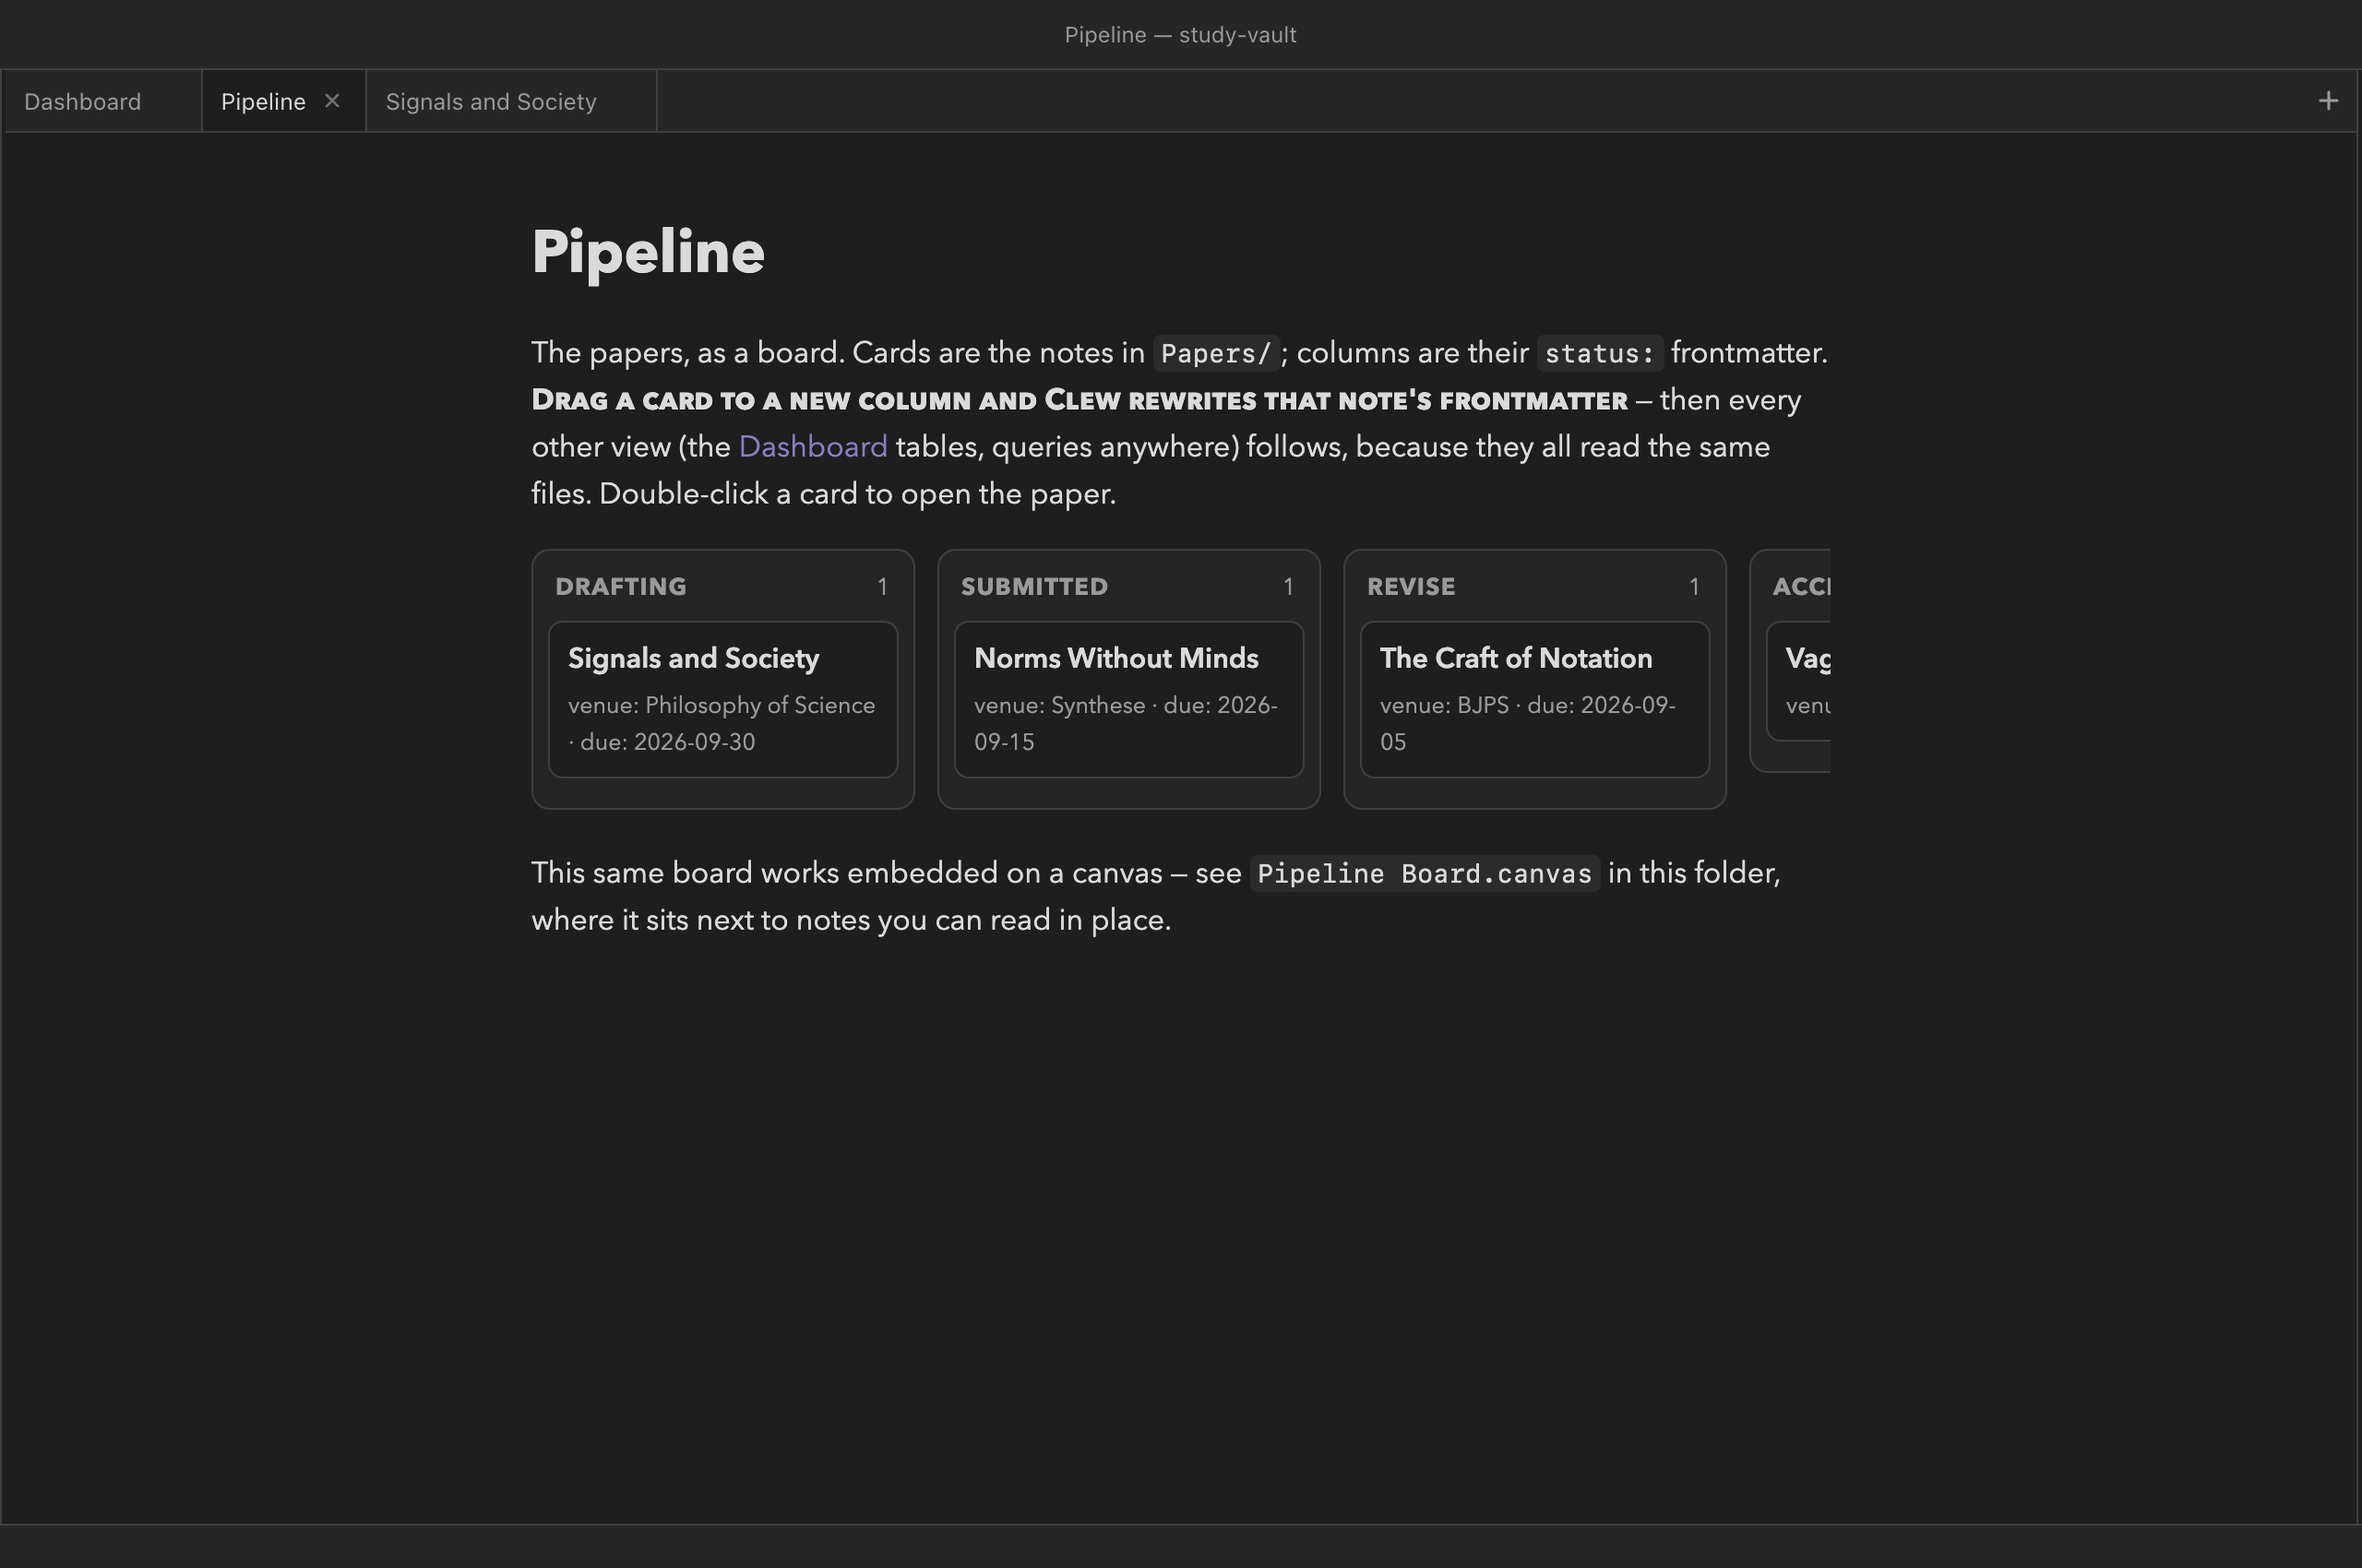
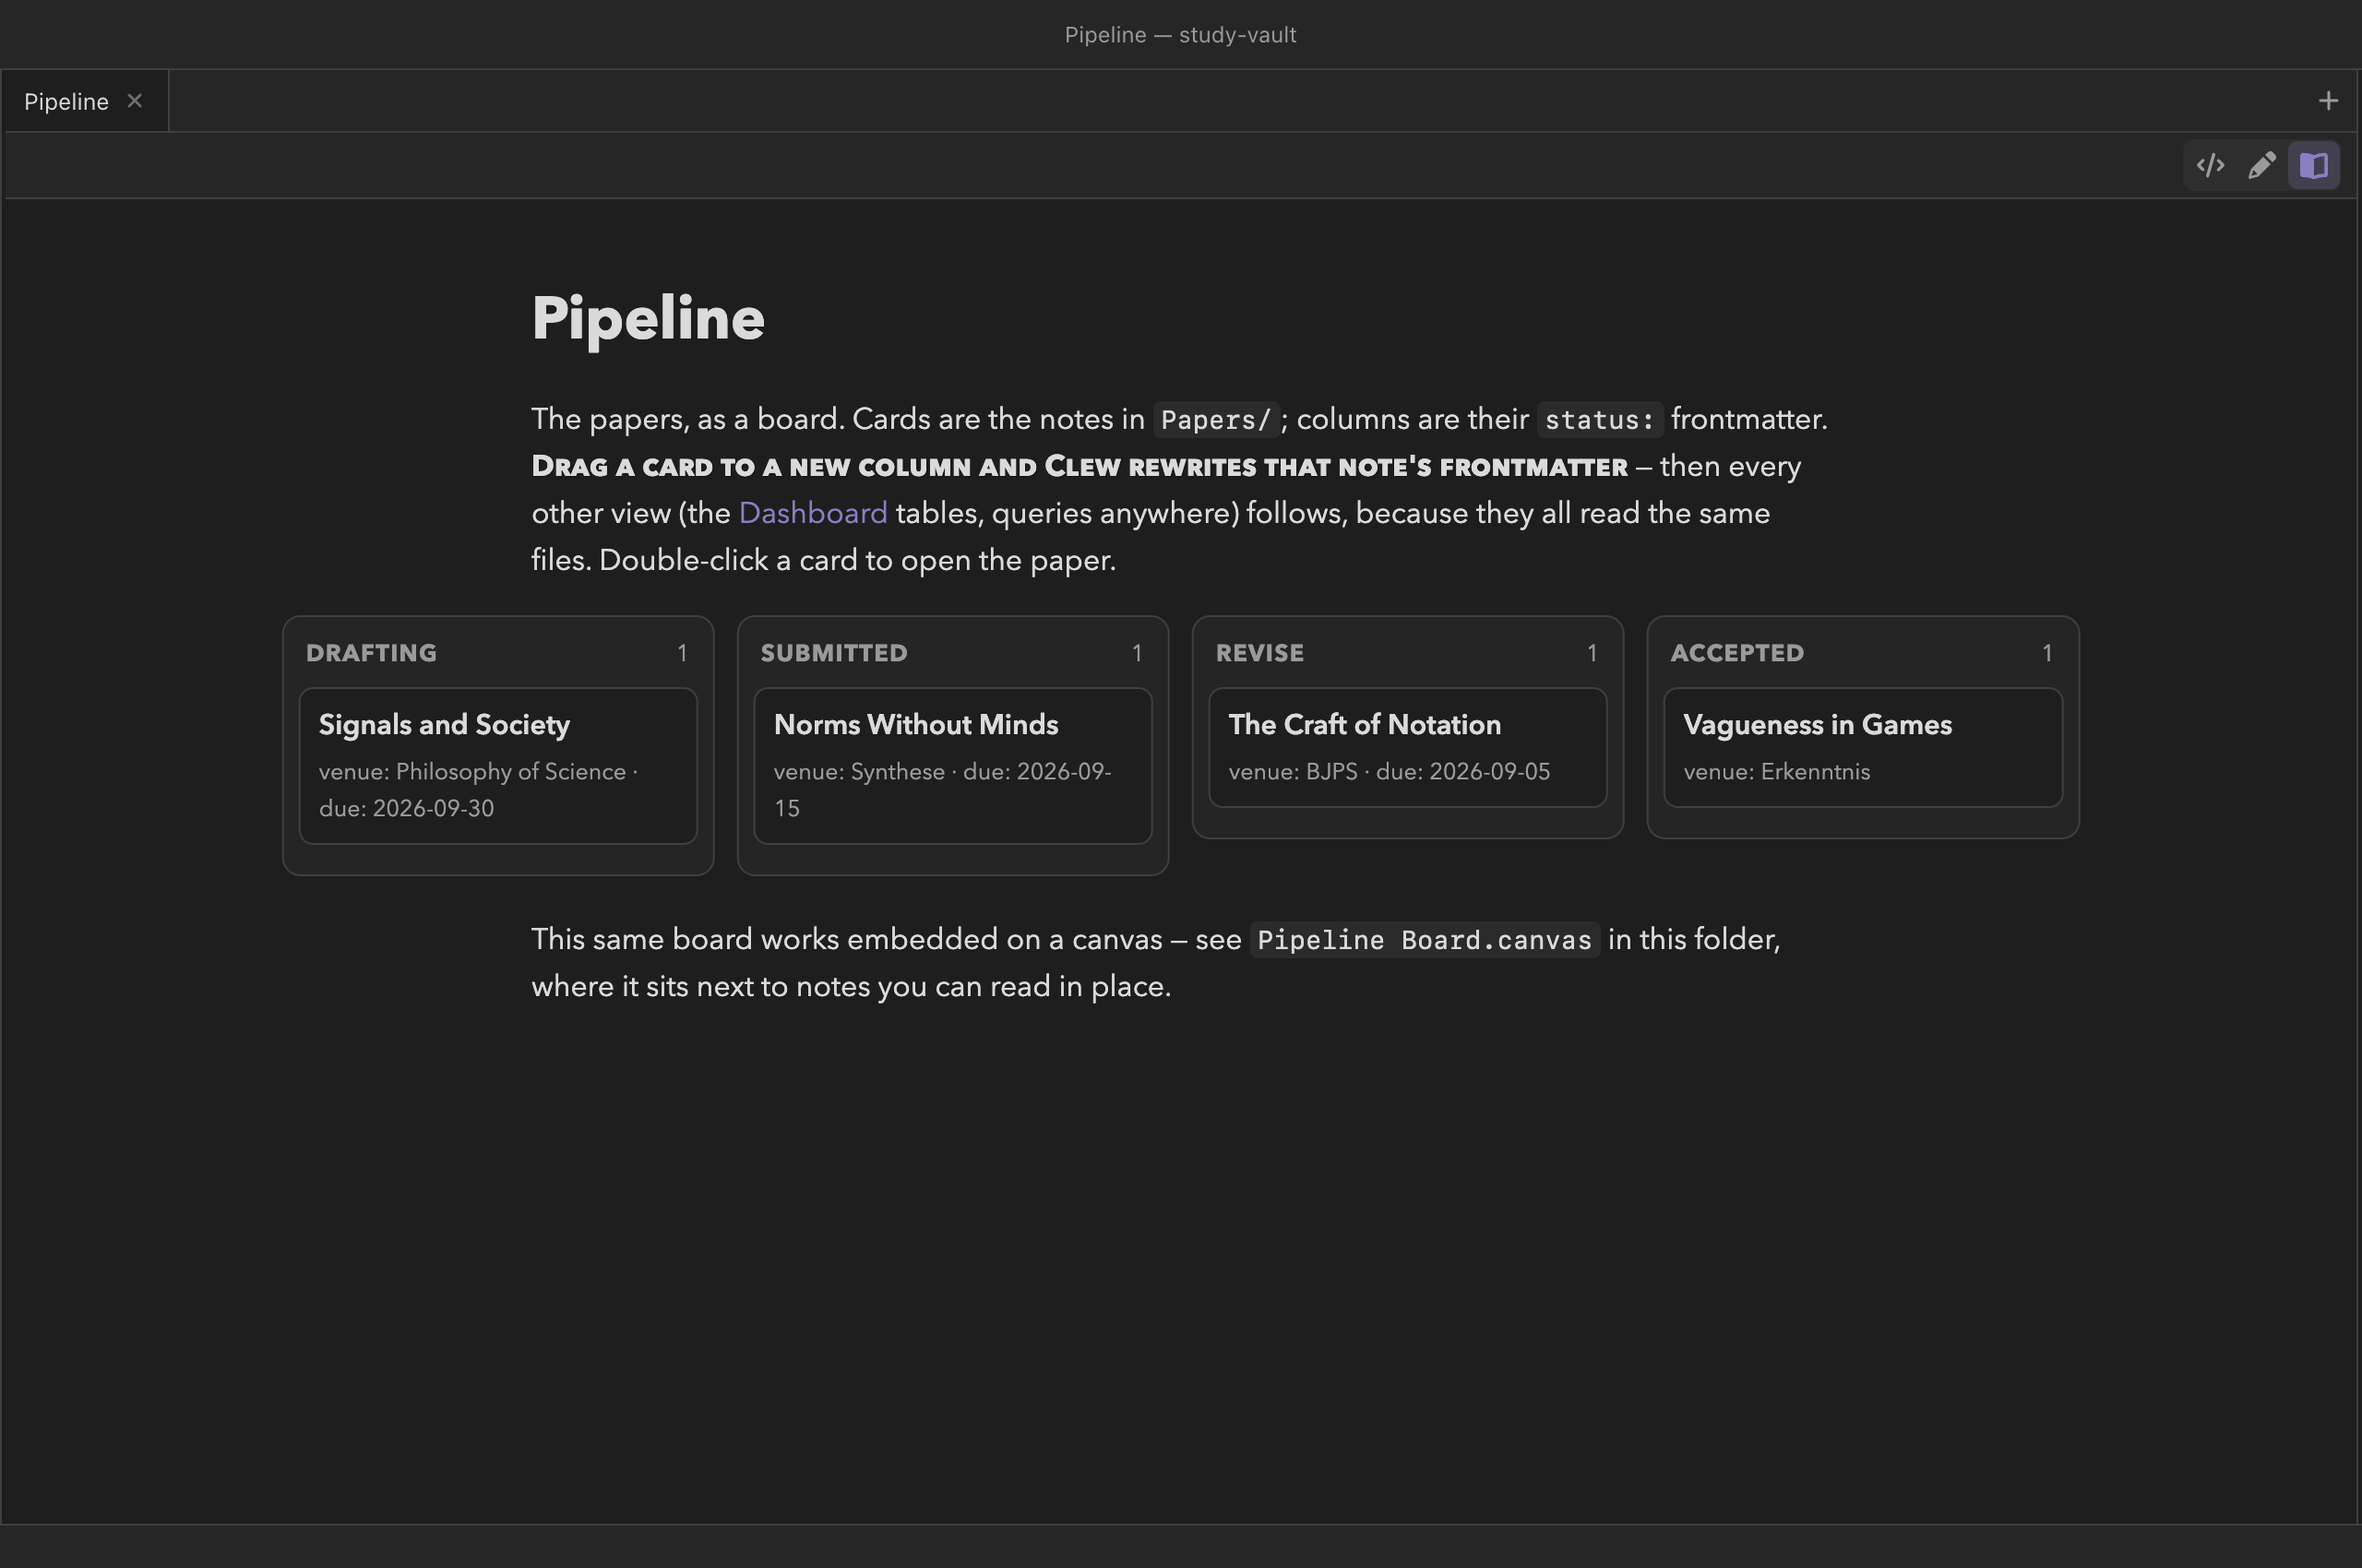
Manual: a wide kanban board widens to the pane — and all four columns show
Clew-app a65395c, after 0.11.1. A board wider than the note column now
widens to fill the pane, centred on the text, and one wider than the pane
scrolls sideways with its scrollbar kept in view on the desktop (WebKit
styles it its own way, so the iPad gets no such promise). The option
list, the caption and the alt text say so; a parenthesis gives 0.11.1's
clip — from four columns up the rest behind a hidden scrollbar a wheel
cannot reach. kanban-board.png retaken: the Pipeline board of a scratch
study-vault, reading mode, sidebars closed, 2560x1700 dark, all four
columns. Smoke-measured with the app's kanban-width-scenario: single
board=868 visible=4/4; split 636 px panes scroll with a visible bar and
the last column reachable.

diff --git a/site/manual/tasks-and-kanban.html b/site/manual/tasks-and-kanban.html
@@ -243,13 +243,13 @@ show: venue, due
 </div>
 
 <figure class="shot">
-	<img src="images/kanban-board.png" alt="A kanban board of papers grouped by status, each card showing the paper's venue and due date, with column headers carrying card counts; the fourth column continues past the right edge of the note column">
+	<img src="images/kanban-board.png" alt="A kanban board of papers grouped by status, each card showing the paper's venue and due date, with column headers carrying card counts; all four columns show, the board wider than the text above it and centred in the pane">
 	<figcaption>The Pipeline board from <code>study-vault</code>: columns
 	are the values of the <code>status</code> field, cards are the notes
 	in <code>Papers/</code>, and each card shows its
-	<code>venue</code> and <code>due</code> metadata. The fourth column
-	continues past the edge of the note column — a wide board scrolls
-	horizontally.</figcaption>
+	<code>venue</code> and <code>due</code> metadata. A board wider than
+	the note column widens to fill the pane; one wider than the pane
+	scrolls sideways.</figcaption>
 </figure>
 
 <p>
@@ -273,9 +273,12 @@ The options, all of them:
 	whose field value is not one of the listed columns are not shown.
 	Without <code>columns:</code>, the board grows one column per
 	distinct value, ordered alphabetically, plus a “—” column for notes
-	where the field is missing or empty. A board wider than the note
-	column does not wrap — it scrolls horizontally, so trailing columns
-	sit just past the edge of the pane.</dd>
+	where the field is missing or empty. A board never wraps: one wider
+	than the note column widens to fill the pane, centred on the text,
+	and one wider than the pane scrolls sideways, its scrollbar kept in
+	view on the desktop. (In 0.11.1 a board stays the width of the note
+	column, and from four columns up the rest sit past its edge behind a
+	hidden scrollbar a mouse wheel cannot reach.)</dd>
 
 	<dt><code>show: f1, f2, …</code></dt>
 	<dd>Fields to display on each card beneath its title, as
